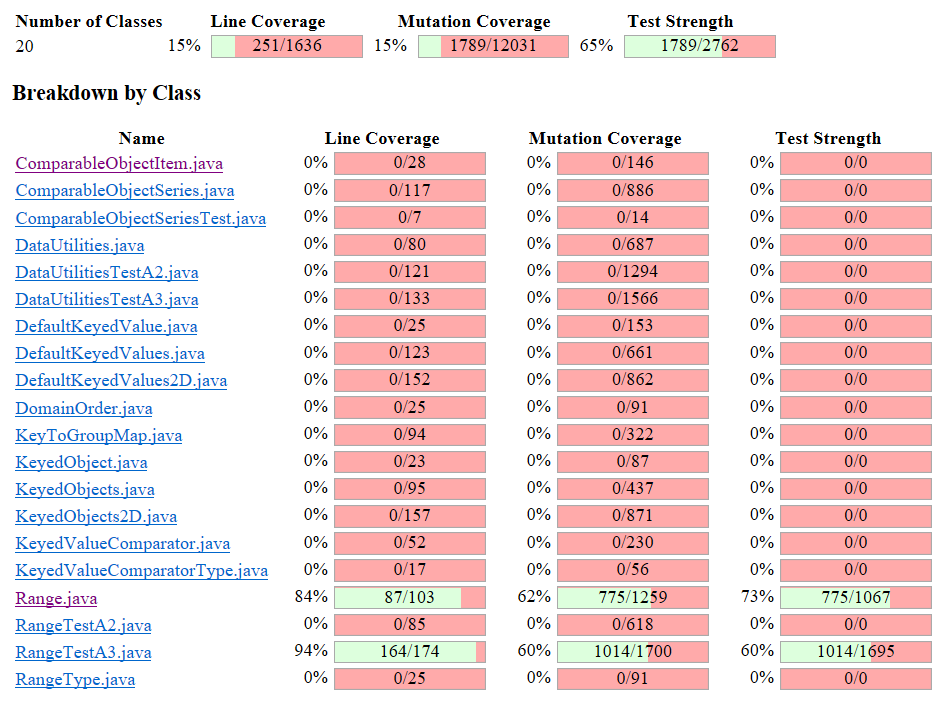
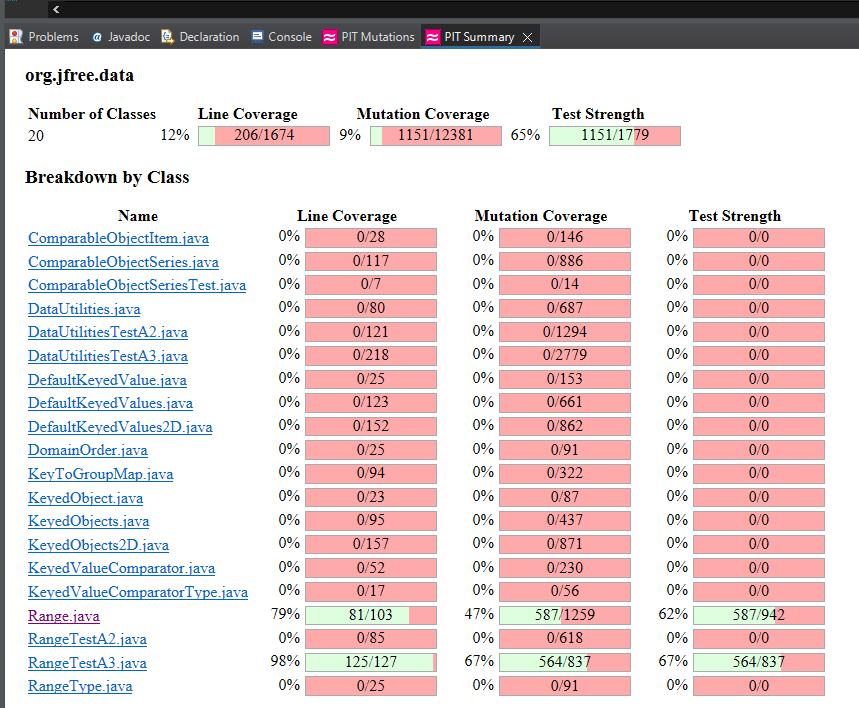
write ups and 1% more for du

diff --git a/JFreeChart_Lab4/src/org/jfree/data/DataUtilitiesTestA3.java b/JFreeChart_Lab4/src/org/jfree/data/DataUtilitiesTestA3.java
@@ -771,6 +771,110 @@ public class DataUtilitiesTestA3 extends DataUtilities {
 	
 	// we can explain the last 3 as "testing what happens with invalid row/col/item counts" or some bs
 	
+	// MUTATION TESTS
+	@Test 
+	public void equalClose() {
+		double[][] t1 = {{1,1},{1,1}};
+		double[][] t2 = {{1,2},{1,1}};
+		assertTrue(!DataUtilities.equal(t1, t2));
+	}
+	
+	@Test
+	public void cloneNull() {
+		double[][] t1 = null;
+		boolean err = false;
+		try {
+			DataUtilities.clone(t1);
+		} catch (IllegalArgumentException e) {
+			err = true;
+		} catch (Exception f) {
+			
+		}
+		assertTrue(err);
+	}
+	
+	@Test
+	public void calcColTotMutant() {
+		// setup
+		Mockery mockcntxt  = new Mockery();
+		final Values2D val = mockcntxt.mock(Values2D.class);
+		mockcntxt.checking(new Expectations() {
+		    {
+		         one(val).getRowCount();
+		         will(returnValue(2));
+		         one(val).getValue(0, 0);
+		         will(returnValue(1.1));
+		         one(val).getValue(1, 0);
+		         will(returnValue(1.2));
+		    }
+		});
+		// test
+		double result = DataUtilities.calculateColumnTotal(val,0);
+		assertEquals("CalculateColumnTotal should return 10 but instead returned" + result, 2.3, result, .000000001d);
+	}
+	
+	@Test
+	public void calColTotValidMutant() {
+		// setup
+		Mockery mockcntxt  = new Mockery();
+		final Values2D val = mockcntxt.mock(Values2D.class);
+		mockcntxt.checking(new Expectations() {
+		    {
+		    	one(val).getRowCount();
+		         will(returnValue(2));
+		         one(val).getValue(0, 0);
+		         will(returnValue(1.1));
+		         one(val).getValue(1, 0);
+		         will(returnValue(1.2));
+		    }
+		});
+		// test
+		int[] validrows = {0, 1};
+		double result = DataUtilities.calculateColumnTotal(val,0,validrows);
+		assertEquals("CalculateColumnTotal should return 8.5 but instead returned" + result, 2.3, result, .000000001d);
+	}
+	
+	@Test
+	public void calcRowTotMutant() {
+		// setup
+		Mockery mockcntxt  = new Mockery();
+		final Values2D val = mockcntxt.mock(Values2D.class);
+		mockcntxt.checking(new Expectations() {
+		    {
+		         one(val).getColumnCount();
+		         will(returnValue(2));
+		         one(val).getValue(0, 0);
+		         will(returnValue(1.1));
+		         one(val).getValue(0, 1);
+		         will(returnValue(1.2));
+		    }
+		});
+		// test
+		double result = DataUtilities.calculateRowTotal(val,0);
+		assertEquals("CalculateRowTotal should return 10 but instead returned" + result, 2.3, result, .000000001d);
+	}
+	
+	@Test
+	public void calRowTotValidMutant() {
+		// setup
+		Mockery mockcntxt  = new Mockery();
+		final Values2D val = mockcntxt.mock(Values2D.class);
+		mockcntxt.checking(new Expectations() {
+		    {
+		    	one(val).getColumnCount();
+		         will(returnValue(2));
+		         one(val).getValue(0, 0);
+		         will(returnValue(1.1));
+		         one(val).getValue(0, 1);
+		         will(returnValue(1.2));
+		    }
+		});
+		// test
+		int[] validcols = {0, 1};
+		double result = DataUtilities.calculateRowTotal(val,0,validcols);
+		assertEquals("CalculateRowTotal should return 8.5 but instead returned" + result, 2.3, result, .000000001d);
+	}
+	
 	@After
 	public void tearDown() throws Exception {
 	}

diff --git a/seng438-a4-team_2.md b/seng438-a4-team_2.md
@@ -155,8 +155,18 @@ With this, the lower or upper variable are negated. This would make the the larg
 ## RangeA4
 ![](./RangePIT2.png)
 
+## DataUtilitiesA3
+![](./DUPITa3.png)
+
+## DataUtilitiesA4
+Increasing the strength and coverage for this test is very difficult. Because it is already at 90%, increasing it further not only requires making many specific tests for a select few outlier surviving mutants, but also implies that we approach 100% mutant coverage and kill rate, which is nearly impossible, as some mutants, such as equivalent mutants, are hard to detect and make a case that will properly kill them.
+
+Throughout some extra test cases, we were able to achieve a few percentage extra, but were ultimately unable to kill off some mutants no matter what we tried. We believe or estimate that we could possibly go for 97 or possibly 98 percent, but striving for 100% is nearly impossible with some of the injected mutants in our program.
+
 # Analysis drawn on the effectiveness of each of the test classes
 One of the best ways to kill mutants that we found was to increase our boundary testing. A large portion of surviving mutants related to incrementing or decrementing values by 1, thus the solution was to add test cases with the functions receiving similar values that were up to one integer apart. This alone gained a few percent in the mutation test strength. 
+
+The main method to find how to make tests to kill more mutants was to look through the results of mutation testing and find areas in which not many mutants had been successfully killed. Then, we wrote up new tests that more specifically pandered to the mutants that were surviving.
 
 
 # A discussion on the effect of equivalent mutants on mutation score accuracy
